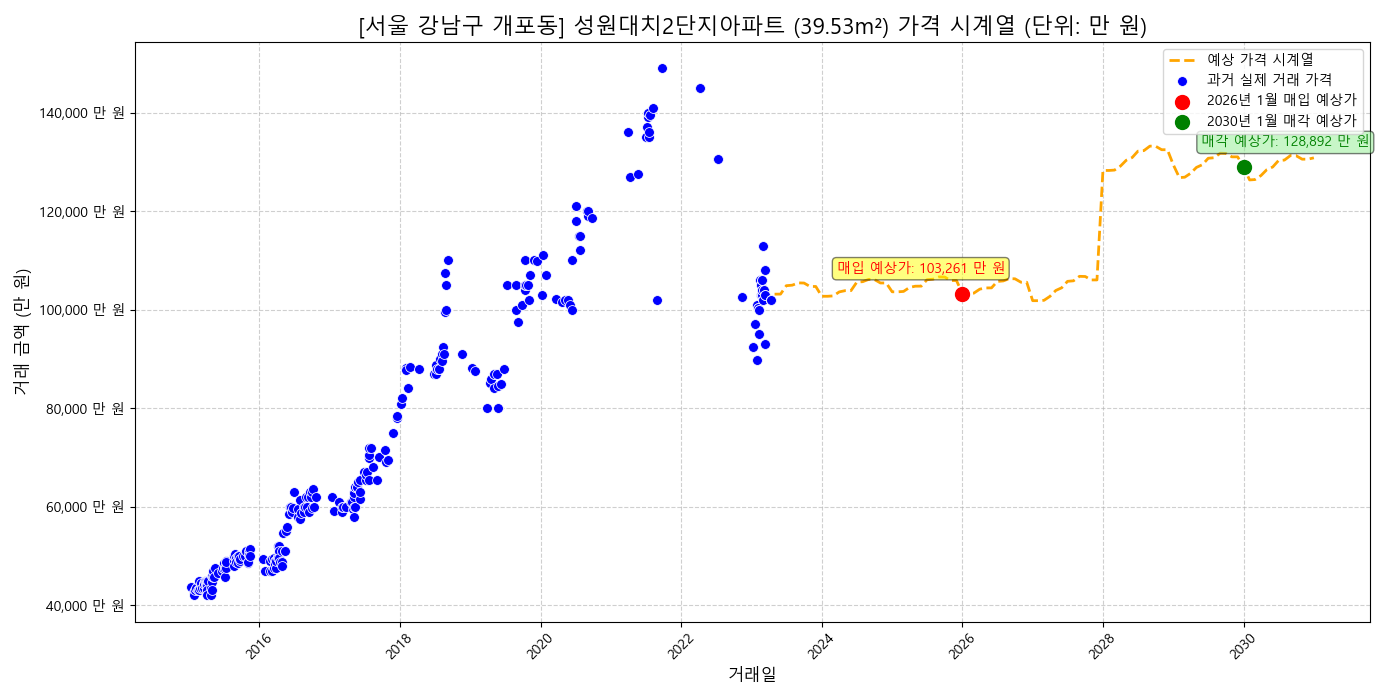
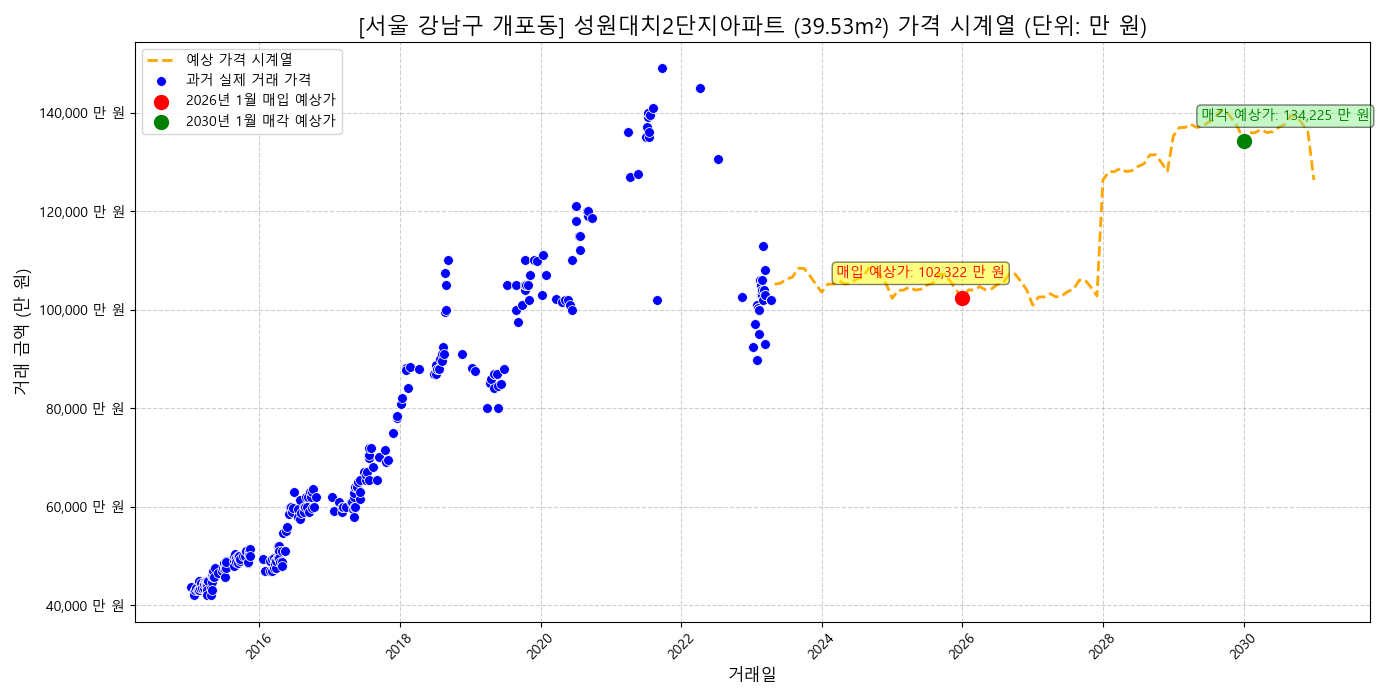
update training condition, update markup table print code

diff --git a/APTDealData_Train_Predict.py b/APTDealData_Train_Predict.py
@@ -21,8 +21,8 @@ PRELOAD_FILE_PATH = os.path.join(TRAINED_DATA_DIR, 'preload_xgb_data.csv')
 ENCODERS_FILE_PATH = os.path.join(TRAINED_DATA_DIR, 'label_encoders.joblib')
 PLOT_OUTPUT_DIR = 'results'  # 그래프 및 추천 결과 저장 폴더
 
-SHOULD_RETRAIN = False
-MIN_TRANSACTION_COUNT = 100  # 최소 거래 횟수 필터링 기준
+SHOULD_RETRAIN = True
+MIN_TRANSACTION_COUNT = 50  # 최소 거래 횟수 필터링 기준
 cat_features = ['시도명', '시군구명', '법정동', '아파트']
 
 # --------------
@@ -580,19 +580,28 @@ if __name__ == "__main__":
         output_text += f"**예상 최대 이익 (5년):** {format_manwon(best_apt['예상_최대이익'])}\n"
         output_text += "=" * 70 + "\n"
 
-        output_text += f"\n상위 10개 추천 아파트 목록 ({selected_sido}, 이익 만 원 기준)\n"
+        output_text += f"\n### 🏙 상위 10개 추천 아파트 목록 ({selected_sido}, 이익 만 원 기준)\n\n"
+
         display_cols = ['시도명', '시군구명', '법정동', '아파트', '전용면적', '예상_최대이익', '매입예상가_2026_01', '매각예상가_2030_01']
 
-        top_10_string = top_10_apts[display_cols].to_string(
-            index=False,
-            formatters={
-                '예상_최대이익': '{:,.0f}'.format,
-                '매입예상가_2026_01': '{:,.0f}'.format,
-                '매각예상가_2030_01': '{:,.0f}'.format,
-                '전용면적': '{:.2f}'.format,
-            }
-        )
-        output_text += top_10_string + "\n"
+        # 숫자 포맷 적용
+        top_10_formatted = top_10_apts[display_cols].copy()
+        top_10_formatted['예상_최대이익'] = top_10_formatted['예상_최대이익'].map('{:,.0f}'.format)
+        top_10_formatted['매입예상가_2026_01'] = top_10_formatted['매입예상가_2026_01'].map('{:,.0f}'.format)
+        top_10_formatted['매각예상가_2030_01'] = top_10_formatted['매각예상가_2030_01'].map('{:,.0f}'.format)
+        top_10_formatted['전용면적'] = top_10_formatted['전용면적'].map('{:.2f}'.format)
+
+        # Markdown 표 수동 생성
+        header = "| " + " | ".join(display_cols) + " |"
+        separator = "| " + " | ".join([":---:" for _ in display_cols]) + " |"
+        rows = [
+            "| " + " | ".join(map(str, row)) + " |"
+            for row in top_10_formatted.values
+        ]
+        top_10_md = "\n".join([header, separator] + rows)
+
+        output_text += top_10_md + "\n"
+
         output_text += "\n" + "=" * 70 + "\n"
         output_text += f"결과는 ./{PLOT_OUTPUT_DIR}/{selected_sido}_APT_Recommendation.txt 파일로 저장되었습니다.\n"
         output_text += "최적 아파트는 개별 PNG 파일로, 나머지 9개는 하나의 PNG 파일로 저장됩니다."
